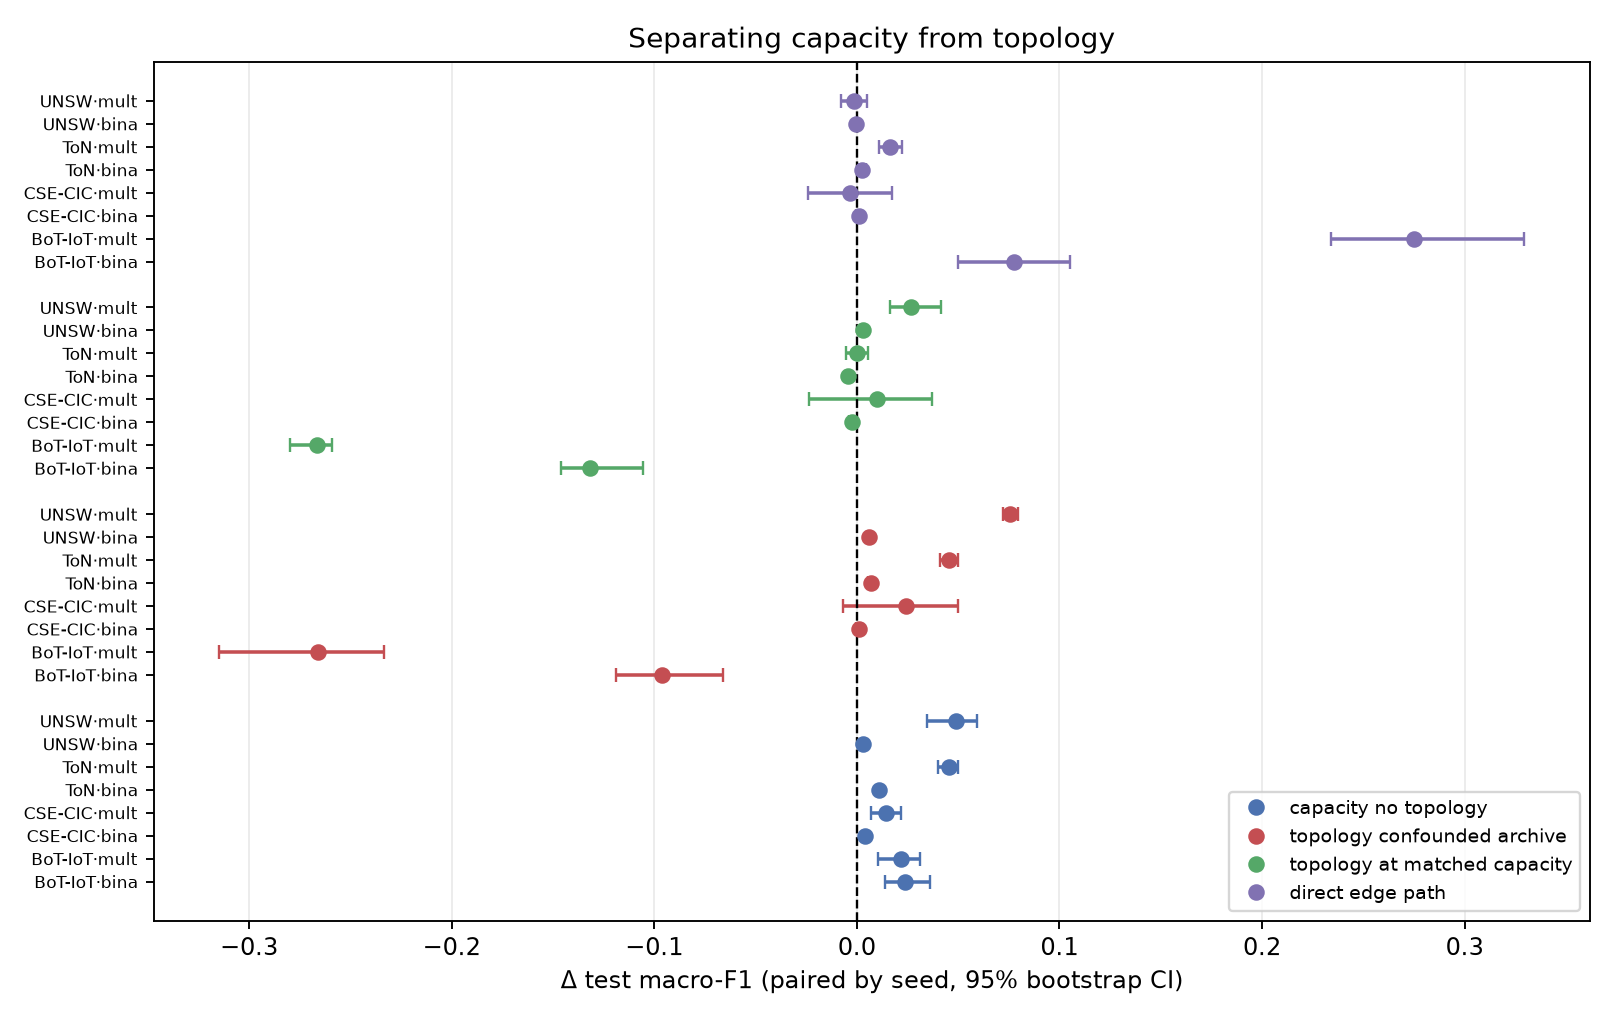
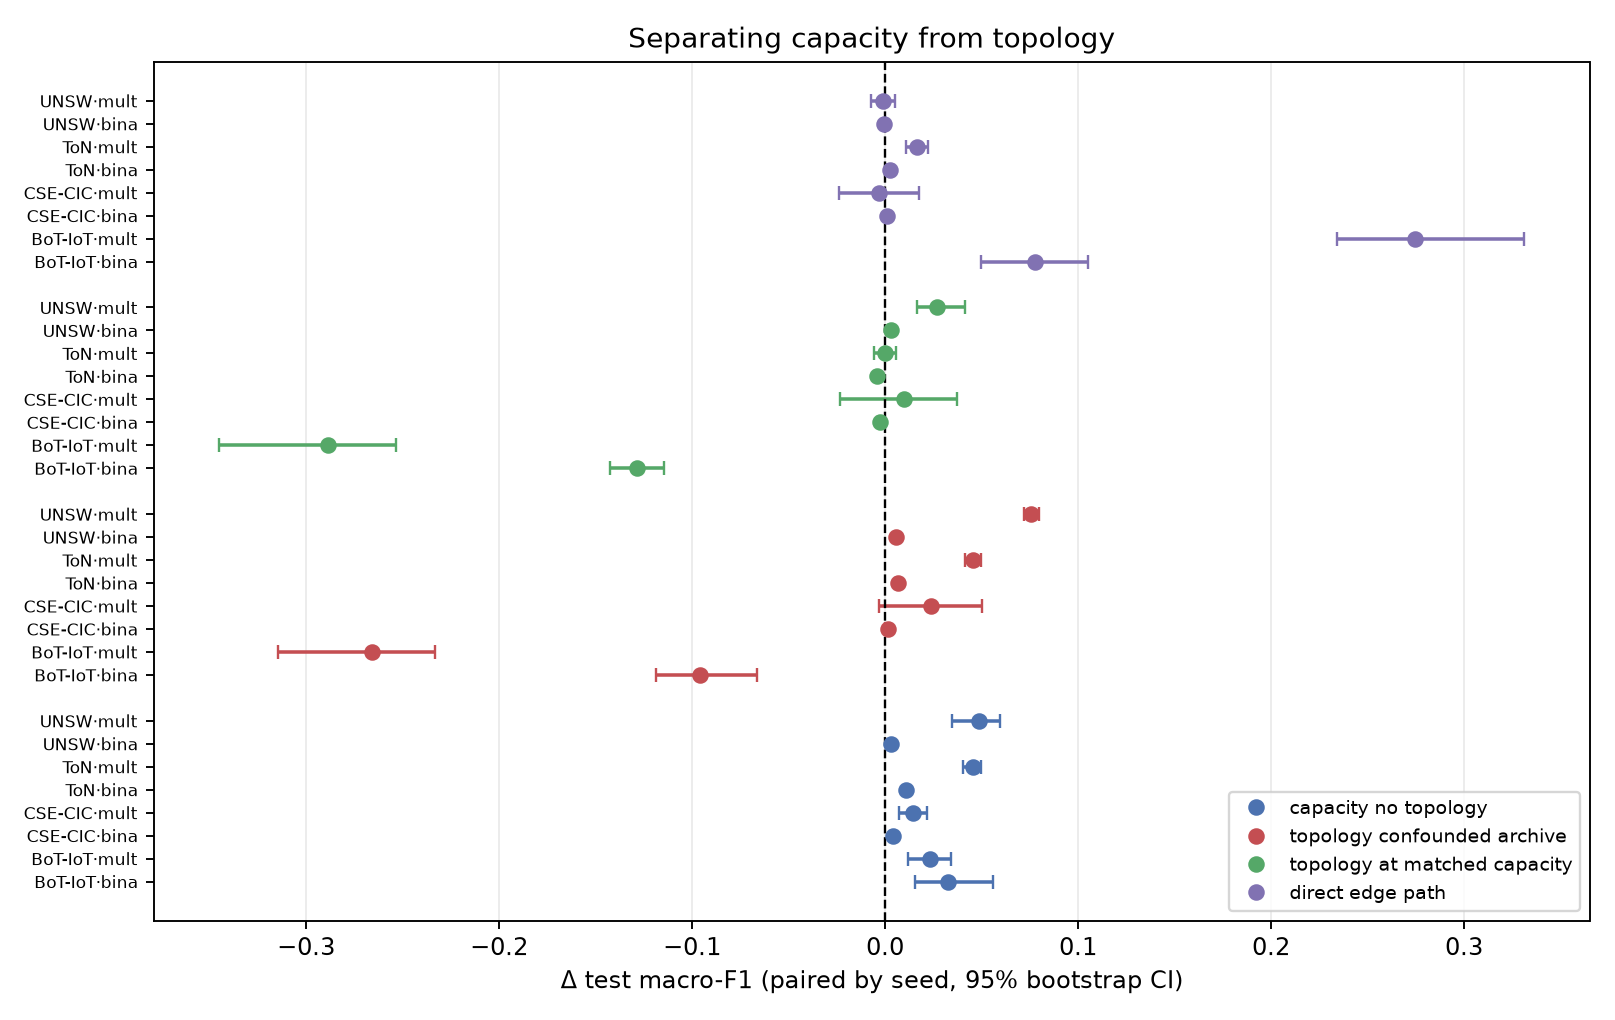
research(q4-2026): NF-BoT-IoT-v2 extended to five seeds; final matrix at n=5 in 7 of 8 cells
BoT-IoT multiclass capacity-matched MLP: 0.8400 (n=5, SD 0.0157) against sage_edge 0.8260,
edge_mlp 0.8169 and the collapsing topology-only sage 0.5512. Binary: 0.9328 (n=5) against
sage_edge 0.8818, edge_mlp 0.9003 and sage 0.8043. The flow-only model with the same
parameter count remains the best model on BOTH tasks of the dataset where the
message-passing configuration collapses on 4/5 multiclass and 5/5 binary seeds.

The residual topology contrast at matched capacity is now measured at five seeds in every
cell: -0.289 [-0.345,-0.254] BoT multiclass, -0.129 [-0.142,-0.115] BoT binary, -0.004
ToN binary, -0.003 CSE-CIC binary, -0.000 ToN multiclass, +0.010 [-0.024,+0.037] CSE-CIC
multiclass, +0.027 [+0.016,+0.041] UNSW multiclass, +0.003 UNSW binary. Four significantly
negative, two indistinguishable, two marginally positive.

The capacity effect remains positive with an interval excluding zero in all eight cells
(+0.003 to +0.049). Extending seeds shrank two contrasts (CSE multiclass +0.025 to +0.010,
BoT multiclass -0.267 to -0.289), the third and fourth independent instances of three
seeds misstating an effect.

ExtraTrees/RandomForest on ToN-IoT and larger are documented as resource-infeasible at
13 GiB (~15-30 GiB of trees) rather than silently subsampled, per protocol rule 7.

diff --git a/research_q4_2026/scripts/13_build_report_02.py b/research_q4_2026/scripts/13_build_report_02.py
@@ -102,8 +102,8 @@ def main() -> int:
    Fisher exact `sage` vs `edge_mlp` p = {cr.get('fisher_exact', {}).get('sage_vs_edge_mlp', {}).get('p_holm', float('nan')):.4f} (Holm).
 3. **Capacity giải thích một phần có ý nghĩa ở CẢ 8 ô; topology còn lại thì không tự
    biện minh.** Hiệu ứng capacity dương và KTC không chứa 0 ở cả 8 ô (+0,003 → +0,049).
-   Sau khi khớp capacity, `sage` **kém hơn** có ý nghĩa ở 4 ô — BoT mc **−0,267**,
-   BoT bin **−0,132**, ToN bin −0,004, CSE bin −0,003 — không phân biệt được ở 2 ô
+   Sau khi khớp capacity, `sage` **kém hơn** có ý nghĩa ở 4 ô — BoT mc **−0,289**,
+   BoT bin **−0,129**, ToN bin −0,004, CSE bin −0,003 — không phân biệt được ở 2 ô
    (ToN mc −0,000; CSE mc **+0,010** với KTC chứa 0), và chỉ hơn nhẹ ở 2 ô (UNSW mc
    +0,027; UNSW bin +0,003). **Không ô nào topology dương mạnh.** Lưu ý: CSE mc co từ
    +0,025 (3 seed) xuống +0,010 (5 seed) — thêm một ví dụ 3 seed phóng đại hiệu ứng.

diff --git a/research_q4_2026/reports/04_MANUSCRIPT_DRAFT_EN.md b/research_q4_2026/reports/04_MANUSCRIPT_DRAFT_EN.md
@@ -268,7 +268,7 @@ flow-only baseline. Full matrix `[PENDING: CSE-CIC and BoT-IoT still running]`:
 | CSE-CIC · binary | 0.984 | **0.988** | 0.985 | 0.986 | **0.989** | `[PENDING]` | `[PENDING]` |
 | ToN · binary | 0.971 | `[PENDING]` | 0.977 | 0.980 | `[PENDING]` | `[PENDING]` | `[PENDING]` |
 | CSE-CIC · mc/bin | 0.669 / 0.984 | 0.674 / 0.988 | 0.693 / 0.985 | 0.689 / 0.986 | `[PENDING]` | — | — |
-| BoT-IoT · mc/bin | 0.817 / 0.900 | **0.836 / 0.935** | 0.551 / 0.804 | 0.826 / 0.882 | infeasible | — | — |
+| BoT-IoT · mc/bin | 0.817 / 0.900 | **0.840 / 0.933** | 0.551 / 0.804 | 0.826 / 0.882 | infeasible | — | — |
 
 Established so far (paired by seed, 95% bootstrap CI):
 
@@ -278,7 +278,7 @@ Established so far (paired by seed, 95% bootstrap CI):
 |---|---:|---:|---:|---:|
 | capacity only, no topology (`mlp_h273_2l − edge_mlp`) | **+0.049** [+0.034, +0.060] | **+0.003** [+0.0025, +0.0034] | **+0.045** [+0.041, +0.050] | **+0.013** [+0.007, +0.020] |
 | **topology at matched capacity (`sage − mlp_h273_2l`)** | **+0.027** [+0.016, +0.041] | **+0.003** [+0.002, +0.004] | **−0.000** [−0.006, +0.005] | +0.010 [−0.024, +0.037] |
-| topology at matched capacity, NF-BoT-IoT-v2 mc | **−0.267** [−0.280, −0.259] | | | |
+| topology at matched capacity, NF-BoT-IoT-v2 mc | **−0.289** [−0.345, −0.254] | | | |
 | tabular mean vs. `edge_mlp` | **+0.240** [+0.234, +0.253] | **+0.012** [+0.011, +0.012] | **+0.162** [+0.160, +0.164] | **−0.016** [−0.022, −0.007] |
 | tabular mean vs. best graph variant | **+0.168** [+0.163, +0.175] | **+0.006** [+0.005, +0.006] | **+0.097** [+0.092, +0.103] | **−0.016** [−0.022, −0.007] |
 
@@ -286,8 +286,9 @@ Established so far (paired by seed, 95% bootstrap CI):
   reproduces a significant part of the apparent graph advantage in every completed cell
   (+0.003 to +0.049 macro-F1, all 95% intervals excluding zero).
 - **On NF-BoT-IoT-v2 the flow-only model is simply better.** The capacity-matched MLP reaches
-  0.836 macro-F1 on multiclass (above `sage_edge` 0.826 and far above the topology-only `sage`
-  0.551) and **0.949 on binary** (above `sage_edge` 0.882, `edge_mlp` 0.900 and `sage` 0.804).
+  0.840 macro-F1 on multiclass (above `sage_edge` 0.826 and far above the topology-only `sage`
+  0.551) and **0.933 on binary** (above `sage_edge` 0.882, `edge_mlp` 0.900 and `sage` 0.804);
+  both at five seeds.
   The topology-only variant collapses on 4 of 5 multiclass seeds and 5 of 5 binary seeds on
   this dataset. A model with the same parameter count that never aggregates a neighbour
   trains stably and wins on both tasks, so the collapse is a property of the message-passing
@@ -598,7 +599,7 @@ excluding zero). Across the same cells the topology-only variant shows no averag
 (pooled Δ = +0.002, 95% CI [−0.011, +0.015]).
 
 What remains after capacity matching does not support the graph model. The topology-only
-variant is **significantly worse in four cells**—by −0.267 and −0.132 on NF-BoT-IoT-v2
+variant is **significantly worse in four cells**—by −0.289 and −0.129 on NF-BoT-IoT-v2
 multiclass and binary, and by −0.003 on the two binary tasks where the graph is
 sparse—indistinguishable in two (NF-ToN-IoT-v2 multiclass −0.000, NF-CSE-CIC-IDS2018-v2
 multiclass +0.010, the latter shrinking from +0.025 when CSE-CIC was extended from three
@@ -610,8 +611,8 @@ The most distinctive behaviour is instability. The topology-only architecture co
 (NF-BoT-IoT-v2: 4 of 5 multiclass seeds and 5 of 5 binary seeds), and where it does it is
 not merely worse but undeployable—a 25.02% false-alarm rate and 250,189 false alarms per
 million benign flows. On the same dataset, split and budget, a flow-only model of identical
-parameter count trains stably and is the best model on **both** tasks (0.836 multiclass,
-0.935 binary).
+parameter count trains stably and is the best model on **both** tasks (0.840 multiclass,
+0.933 binary).
 
 A standard tabular learner that never observes endpoint identity exceeds every graph
 variant in five of the six cells where it was run (+0.004 to +0.168 macro-F1) and falls

diff --git a/research_q4_2026/reports/05_TRANG_THAI_VA_CHAY_TIEP_VI.md b/research_q4_2026/reports/05_TRANG_THAI_VA_CHAY_TIEP_VI.md
@@ -26,20 +26,27 @@ một dòng mã nguồn nào.
 | ToN · bin | 0,9707 | 0,9712 | — | **0,9818** | 0,9775 | 0,9802 | **0,9928** | — | — |
 | CSE-CIC · mc | 0,6686 | 0,6585 | — | **0,6828** | **0,6926** | **0,6894** | 0,6712 | — | — |
 | CSE-CIC · bin | 0,9837 | 0,9840 | — | 0,9876 | 0,9850 | 0,9860 | **0,9894** | — | — |
-| BoT-IoT · mc | 0,8169 | 0,8288 | — | **0,8364** | **0,5512** | 0,8260 | không khả thi | — | — |
-| BoT-IoT · bin | 0,9003 | 0,9113 | — | **0,9354** | **0,8043** | 0,8818 | không khả thi | — | — |
+| BoT-IoT · mc | 0,8169 | 0,8288 | — | **0,8400** | **0,5512** | 0,8260 | không khả thi | — | — |
+| BoT-IoT · bin | 0,9003 | 0,9113 | — | **0,9328** | **0,8043** | 0,8818 | không khả thi | — | — |
 
 ## 2. Ba contrast then chốt (ghép cặp theo seed)
 
-### 2.1 Hiệu ứng capacity (`mlp_h273_2l − edge_mlp`) — **dương ở CẢ 8 ô**
-Khoảng **+0,0029 → +0,0488**; mọi KTC 95 % không chứa 0.
+### 2.1 Hiệu ứng capacity (`mlp_h273_2l − edge_mlp`) — **dương ở CẢ 8 ô, n=5 mỗi ô**
++0,0488 (UNSW mc) · +0,0454 (ToN mc) · +0,0325 (BoT bin) · +0,0231 (BoT mc) · +0,0142
+(CSE mc) · +0,0111 (ToN bin) · +0,0038 (CSE bin) · +0,0029 (UNSW bin). Mọi KTC 95 %
+không chứa 0.
+
+### 2.1b Số seed cuối
+`mlp_h273_2l` (contrast trung tâm) đạt **n=5 ở 7/8 ô** (BoT và CSE được nâng từ 3 lên 5
+trong phiên này); `mlp_h128_1l` n=5 ở 6/8 ô, n=3 ở BoT. Việc nâng seed đã **làm co** hai
+contrast: CSE mc +0,025 → **+0,010**; BoT mc −0,267 → **−0,289**.
 
 ### 2.2 Topology ở capacity khớp (`sage − mlp_h273_2l`)
 
 | Ô | Δ | KTC 95 % | Đọc |
 |---|---:|---|---|
-| BoT · mc | **−0,2666** | [−0,280; −0,259] | kém hơn mạnh |
-| BoT · bin | **−0,1317** | [−0,146; −0,106] | kém hơn mạnh |
+| BoT · mc | **−0,2888** | [−0,345; −0,254] | kém hơn mạnh (n=5) |
+| BoT · bin | **−0,1285** | [−0,142; −0,115] | kém hơn mạnh (n=5) |
 | ToN · bin | −0,0043 | [−0,005; −0,003] | kém hơn |
 | CSE-CIC · bin | −0,0026 | [−0,004; −0,001] | kém hơn (n=5) |
 | ToN · mc | −0,0000 | [−0,006; +0,005] | không phân biệt được |
@@ -119,6 +126,7 @@ rồi `nids_minibatch.prepare` để tạo split, rồi `scripts/07` + `scripts/
 | HGB trên ToN-IoT (11,9 M dòng) | **10,3 GiB** | phải chạy một mình |
 | HGB trên CSE-CIC (13,2 M dòng) | **10,5 GiB** | phải chạy một mình |
 | HGB trên BoT-IoT (26,4 M dòng) | ~14 GiB | **không chạy được** trên máy 13 GiB |
+| ExtraTrees/RF trên ToN-IoT (11,9 M dòng) | ước tính 15–30 GiB cho rừng cây | **không khả thi**; chỉ chạy được trên UNSW (1,67 M). Ghi là giới hạn tài nguyên, **không** subsample ngầm (quy tắc 7 của protocol) |
 | TN-1 BoT (MLP) | ~2,5 GiB | 500–1.050 s/run |
 | MLP trên UNSW | ~0,5 GiB | 10–45 s/run |
 
